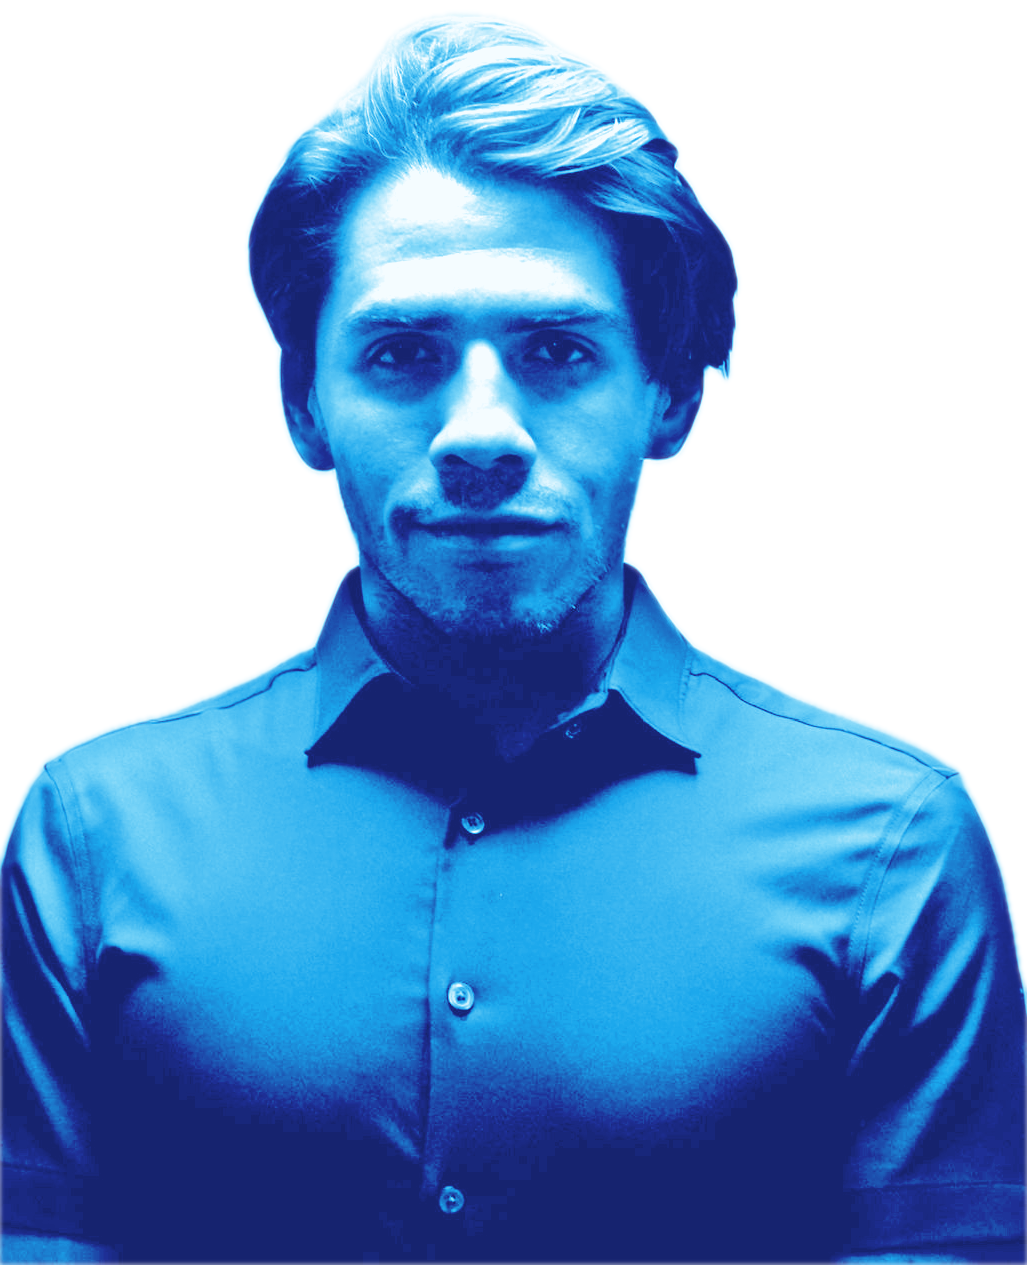
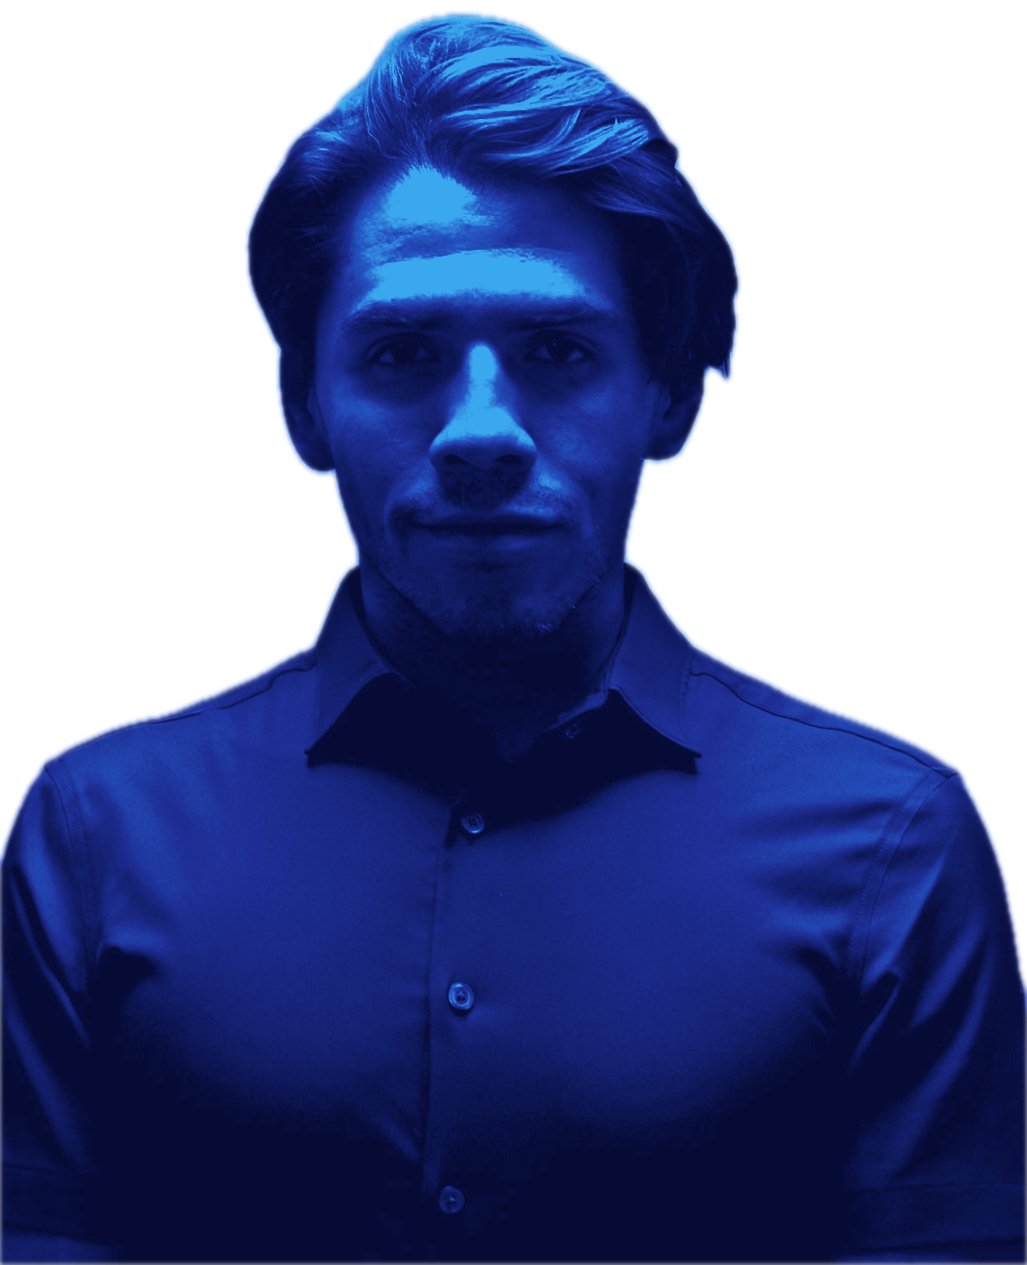
Retrato sin contenedor, duotono oscuro y ficha editorial del nombre

diff --git a/css/styles.css b/css/styles.css
@@ -213,19 +213,40 @@ body.menu-open-fixed{overflow:hidden}
 }
 .hero .sello i{color:var(--turquesa)}
 .hero .tile-foto img{object-position:center 18%}
-/* Retrato recortado en duotono: sin fondo, sobre un resplandor celeste, asoma por arriba del tile */
-.tile-retrato{overflow:visible;background:radial-gradient(120% 90% at 50% 100%,#d9effc 0%,#eef7fd 45%,#ffffff 100%)}
-.tile-retrato::before{
-  content:"";position:absolute;inset:0;border-radius:inherit;
-  background:radial-gradient(60% 50% at 50% 70%,rgba(26,167,236,.22),rgba(26,167,236,0) 70%);
-}
-.tile-retrato img{
-  position:absolute;left:50%;bottom:0;top:auto;width:auto;height:108%;max-width:none;
+/* Retrato recortado en duotono, sin contenedor, con ficha editorial sobre la figura */
+.retrato{position:relative;min-height:440px;overflow:visible}
+.retrato img{
+  position:absolute;left:50%;bottom:0;width:auto;height:112%;max-width:none;
   transform:translateX(-50%);object-fit:contain;object-position:bottom center;
-  filter:drop-shadow(0 18px 30px rgba(30,47,151,.28));
+  filter:drop-shadow(0 24px 34px rgba(6,11,54,.30));
 }
-.tile-retrato:hover img{transform:translateX(-50%)}
-.tile-retrato .pie{z-index:1}
+/* Oscurecido inferior recortado a la silueta, para que la ficha lea sobre la camisa */
+.retrato::after{
+  content:"";position:absolute;left:50%;bottom:0;height:112%;aspect-ratio:1027/1265;transform:translateX(-50%);
+  background:linear-gradient(180deg,rgba(6,11,54,0) 52%,rgba(6,11,54,.78) 100%);
+  -webkit-mask:url("../images/web/doctor-duotono.png") center bottom/contain no-repeat;
+  mask:url("../images/web/doctor-duotono.png") center bottom/contain no-repeat;
+  pointer-events:none;
+}
+.ficha{position:absolute;left:8%;right:8%;bottom:26px;z-index:1;color:#fff;display:flex;flex-direction:column;gap:8px}
+.ficha-etiqueta{font-size:.68rem;font-weight:700;letter-spacing:.22em;text-transform:uppercase;color:var(--cielo)}
+.ficha-nombre{
+  font-family:'Fraunces',Georgia,'Times New Roman',serif;font-optical-sizing:auto;
+  font-weight:500;font-size:clamp(1.6rem,2.6vw,2.15rem);line-height:1.02;letter-spacing:-0.015em;color:#fff;margin:0;
+}
+.ficha-nombre em{font-style:italic;font-weight:400;color:var(--cielo);margin-right:.08em}
+.ficha-regla{display:block;width:44px;height:1px;background:rgba(255,255,255,.55);margin:4px 0 2px}
+.ficha-datos{font-size:.74rem;font-weight:600;letter-spacing:.06em;color:rgba(255,255,255,.82)}
+.ficha-datos i{font-style:normal;color:var(--cielo);margin:0 .35em}
+@media (max-width:980px){
+  .retrato{min-height:460px}
+  .retrato img,.retrato::after{height:100%}
+}
+@media (max-width:640px){
+  .retrato{min-height:400px}
+  .ficha{left:6%;right:6%;bottom:18px}
+  .ficha-nombre{font-size:1.55rem}
+}
 
 /* ================= Sobre mí ================= */
 .sobre .texto{display:flex;flex-direction:column;gap:14px}
@@ -317,7 +338,6 @@ footer{padding:36px 0 40px;border-top:1px solid var(--borde);margin-top:24px}
   .padecimientos{grid-template-columns:repeat(3,1fr)}
 }
 @media (max-width:980px){
-  .tile-retrato img{height:104%}
   .nav-links,.nav-cta{display:none}
   .menu-toggle{display:flex}
   .bento{grid-template-columns:repeat(6,1fr)}

diff --git a/index.html b/index.html
@@ -12,9 +12,9 @@
 
   <link rel="preconnect" href="https://fonts.googleapis.com" />
   <link rel="preconnect" href="https://fonts.gstatic.com" crossorigin />
-  <link href="https://fonts.googleapis.com/css2?family=Manrope:wght@400;500;600;700;800&display=swap" rel="stylesheet" />
+  <link href="https://fonts.googleapis.com/css2?family=Manrope:wght@400;500;600;700;800&family=Fraunces:ital,opsz,wght@0,9..144,400;0,9..144,500;1,9..144,400&display=swap" rel="stylesheet" />
   <link href="https://cdnjs.cloudflare.com/ajax/libs/font-awesome/6.5.1/css/all.min.css" rel="stylesheet" referrerpolicy="no-referrer" />
-  <link rel="stylesheet" href="css/styles.css?v=20261006c" />
+  <link rel="stylesheet" href="css/styles.css?v=20261006d" />
 
   <link rel="icon" href="images/marca/icono.svg" type="image/svg+xml" />
   <link rel="alternate icon" href="images/favicon.png" type="image/png" />
@@ -158,11 +158,13 @@
       <span class="sello"><i class="fa-solid fa-circle-check" aria-hidden="true"></i> Cédula de especialidad 10508486 · Consulta en Médica Campestre</span>
     </div>
 
-    <figure class="tile tile-foto tile-retrato c-5 r-2 reveal">
+    <figure class="retrato c-5 r-2 reveal">
       <img src="images/web/doctor-duotono.png" alt="Retrato del Dr. Gildardo Daniel Mora Saucedo, reumatólogo en León" width="1027" height="1265" fetchpriority="high" decoding="async" />
-      <figcaption class="pie">
-        <strong>Dr. Gildardo Daniel Mora Saucedo</strong>
-        <span>Especialista en Reumatología</span>
+      <figcaption class="ficha">
+        <span class="ficha-etiqueta">Reumatólogo certificado</span>
+        <p class="ficha-nombre"><em>Dr.</em> Gildardo Daniel<br>Mora Saucedo</p>
+        <span class="ficha-regla"></span>
+        <span class="ficha-datos">Céd. prof. 7405984 <i>·</i> Céd. esp. 10508486</span>
       </figcaption>
     </figure>
 

diff --git a/aviso-de-privacidad.html b/aviso-de-privacidad.html
@@ -13,7 +13,7 @@
   <link href="https://fonts.googleapis.com/css2?family=Manrope:wght@400;500;600;700;800&display=swap" rel="stylesheet">
 
   <!-- Estilos globales del sitio -->
-  <link rel="stylesheet" href="css/styles.css?v=20261006c"/>
+  <link rel="stylesheet" href="css/styles.css?v=20261006d"/>
   <link rel="icon" href="images/marca/icono.svg" type="image/svg+xml">
   <link rel="apple-touch-icon" href="images/apple-touch-icon.png">
 

diff --git a/DISENO.md b/DISENO.md
@@ -50,4 +50,8 @@ El contenido se captura en el bloque `CONFIGURACIÓN DE CONTENIDO` al inicio del
 
 ## Retrato del doctor
 
-El héroe usa `images/web/doctor-duotono.png`: el retrato en blanco y negro recortado sin fondo (máscara de sujeto generada con Vision de macOS, script en el historial) y un mapa de degradado con la paleta: sombras marino oscuro → marino → medios azul → luces cielo → blanco, con gamma 0.72 para levantar los medios tonos. Va sobre un resplandor celeste y asoma por arriba del tile (`.tile-retrato`). Para regenerarlo con otra foto: máscara con `VNGenerateForegroundInstanceMaskRequest`, luego el mapa de degradado con PIL.
+El héroe usa `images/web/doctor-duotono.png`: el retrato en blanco y negro recortado sin fondo (máscara de sujeto con Vision de macOS) y un mapa de degradado oscuro: casi negro azulado `#060b36` → `#101b62` → marino `#1e2f97` → `#2457c4`, y las luces no pasan de azul `#3aa8ee` (gamma 0.88). La figura va **sin contenedor** (Carlos pidió quitar el recuadro), anclada abajo y asomando por arriba del bloque del héroe (`.retrato`), con sombra proyectada. Un oscurecido inferior recortado a la silueta (`mask` con el mismo PNG) permite leer la ficha.
+
+**Ficha editorial** (`.ficha`): etiqueta en Manrope mayúsculas con tracking amplio en cielo, nombre en **Fraunces** 500 a dos líneas con el "Dr." en itálica cielo, regla fina de 44px y cédulas en Manrope pequeña con separador en cielo. Fraunces solo se usa para este nombre.
+
+Para regenerar con otra foto: máscara con `VNGenerateForegroundInstanceMaskRequest`, luego el mapa de degradado con PIL (paleta y gamma arriba).
